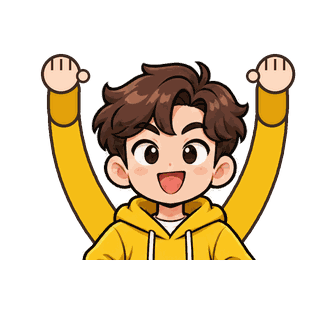
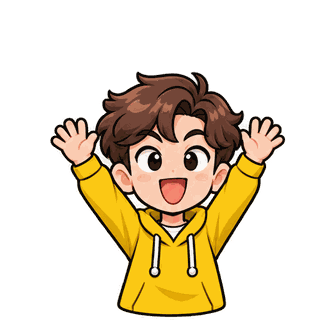
만세 그림을 새로 그린 만세 캐릭터로 교체
- 덧붙인 팔 대신, 팔을 든 모습으로 새로 그린 캐릭터 시트에서 6명을 잘라 넣었습니다.
- 앉은 그림과 같은 비율로 줄이고 아래·가운데를 맞춰, 만세할 때 크기와 위치가 그대로입니다.
- scripts/make-cheer.py → scripts/prepare-cheer.py (시트에서 잘라 만드는 스크립트)

Claude-Session: https://claude.ai/code/session_016xcerVKMkEvuiimbfnFxun

diff --git a/site/src/characters.js b/site/src/characters.js
@@ -12,11 +12,11 @@ export const DEFAULT_CHARACTER = CHARACTERS[0].id;
 
 export const characterSrc = (id) => `characters/${id}.png`;
 
-/** 손을 번쩍 든 만세 그림 (scripts/make-cheer.py가 만듭니다) */
+/** 손을 번쩍 든 만세 그림 (scripts/prepare-cheer.py가 만세 시트에서 잘라 만듭니다) */
 export const cheerSrc = (id) => `characters/${id}-cheer.png`;
 
 /** 만세 그림은 원래 그림(256×256)보다 좌우로 PAD_X, 위로 PAD_TOP만큼 넓습니다. */
-export const CHEER_PAD = { x: 40, top: 56, size: 256 };
+export const CHEER_PAD = { x: 40, top: 64, size: 256 };
 
 export const isCharacter = (id) => CHARACTERS.some((c) => c.id === id);
 

diff --git a/scripts/prepare-cheer.py b/scripts/prepare-cheer.py
@@ -1,0 +1,81 @@
+"""만세 그림 준비: 만세 캐릭터 시트(3×3)에서 6명을 잘라 site/characters/<id>-cheer.png 로 저장합니다.
+
+  python3 scripts/prepare-cheer.py <만세 시트.png>
+
+앉은 그림(<id>.png)과 몸 크기가 같도록, 원래 시트에서 앉은 그림을 자를 때와 같은 비율로 줄이고
+아래쪽(몸통 끝)과 가운데를 맞춥니다. 만세 그림은 팔이 머리 위로 올라가 있어 앉은 그림보다 넓고 높으므로
+좌우로 PAD_X, 위로 PAD_TOP만큼 넓힌 캔버스에 그립니다 (site/src/characters.js의 CHEER_PAD와 같은 값).
+"""
+import sys
+from pathlib import Path
+from PIL import Image
+
+ROOT = Path(__file__).resolve().parent.parent / 'site' / 'characters'
+SIZE = 256
+PAD_X = 40
+PAD_TOP = 64
+
+# 시트의 칸 번호(왼쪽 위부터 1~9) → 캐릭터, 그리고 앉은 그림을 만들 때 원래 시트에서 잘라낸 크기(가로, 세로)
+PICKS = {
+    1: ('boy', (310, 419)),
+    2: ('girl', (313, 400)),
+    4: ('shiba', (303, 388)),
+    6: ('bear', (326, 383)),
+    7: ('robot', (310, 406)),
+    9: ('astronaut', (325, 400)),
+}
+
+
+def cells(sheet):
+    """투명하지 않은 영역을 행과 열로 나눠 3×3 칸의 상자를 찾습니다."""
+    alpha = sheet.getchannel('A').point(lambda a: 255 if a > 20 else 0)
+    w, h = sheet.size
+
+    def runs(counts):
+        out, start = [], None
+        for i, c in enumerate(counts):
+            if c > 3 and start is None:
+                start = i
+            if c <= 3 and start is not None:
+                out.append((start, i))
+                start = None
+        if start is not None:
+            out.append((start, len(counts)))
+        return out
+
+    px = alpha.load()
+    rows = runs([sum(1 for x in range(w) if px[x, y]) for y in range(h)])
+    if len(rows) != 3:
+        raise SystemExit(f'행을 3개 찾지 못했습니다: {rows}')
+    boxes = []
+    for y0, y1 in rows:
+        cols = runs([sum(1 for y in range(y0, y1) if px[x, y]) for x in range(w)])
+        if len(cols) != 3:
+            raise SystemExit(f'열을 3개 찾지 못했습니다: {cols}')
+        boxes += [(x0, y0, x1, y1) for x0, x1 in cols]
+    return boxes
+
+
+def main(path):
+    sheet = Image.open(path).convert('RGBA')
+    boxes = cells(sheet)
+    W, H = SIZE + 2 * PAD_X, SIZE + PAD_TOP
+    for n, (cid, (ow, oh)) in PICKS.items():
+        x0, y0, x1, y1 = boxes[n - 1]
+        crop = sheet.crop((x0 - 4, y0 - 4, x1 + 4, y1 + 4))
+        crop = crop.crop(crop.getbbox())
+        f = SIZE / max(ow, oh)  # 앉은 그림과 같은 비율
+        art = crop.resize((round(crop.width * f), round(crop.height * f)), Image.LANCZOS)
+        if art.width > W or art.height > H:
+            raise SystemExit(f'{cid}: 캔버스보다 큽니다 {art.size} > {(W, H)} — PAD_X/PAD_TOP을 늘리세요')
+        canvas = Image.new('RGBA', (W, H), (0, 0, 0, 0))
+        canvas.alpha_composite(art, ((W - art.width) // 2, H - art.height))  # 가운데·아래 맞춤
+        out = canvas.quantize(colors=160, method=Image.FASTOCTREE, dither=Image.NONE)
+        out.save(ROOT / f'{cid}-cheer.png', optimize=True)
+        print(cid, art.size, (ROOT / f'{cid}-cheer.png').stat().st_size, 'bytes')
+
+
+if __name__ == '__main__':
+    if len(sys.argv) != 2:
+        raise SystemExit('사용법: python3 scripts/prepare-cheer.py <만세 시트.png>')
+    main(sys.argv[1])

diff --git a/README.md b/README.md
@@ -149,7 +149,7 @@ test/records.test.mjs  최고 기록 저장 규칙·결과 제목 테스트
 첫 화면에서 6종(노란 후드, 초록 재킷, 시바견, 곰, 로봇, 우주비행사) 가운데 하나를 고르면, 그 캐릭터 세 명이
 열차 세 칸에 한 명씩 탑니다. 만세를 하면 세 명 모두 손을 번쩍 든 그림으로 바뀌어 폴짝폴짝 뛰고, 기절하면 뒤로 넘어갑니다.
 그림은 `site/characters/*.png`, 목록은 `site/src/characters.js`에 있습니다.
-만세 그림(`*-cheer.png`)은 원래 그림에 위로 뻗은 팔을 그려 넣어 만듭니다: `python3 scripts/make-cheer.py` (Pillow 필요).
+만세 그림(`*-cheer.png`)은 만세 캐릭터 시트에서 잘라 앉은 그림과 크기를 맞춥니다: `python3 scripts/prepare-cheer.py <시트.png>` (Pillow 필요).
 
 ## 토스 인앱 (앱인토스)
 
